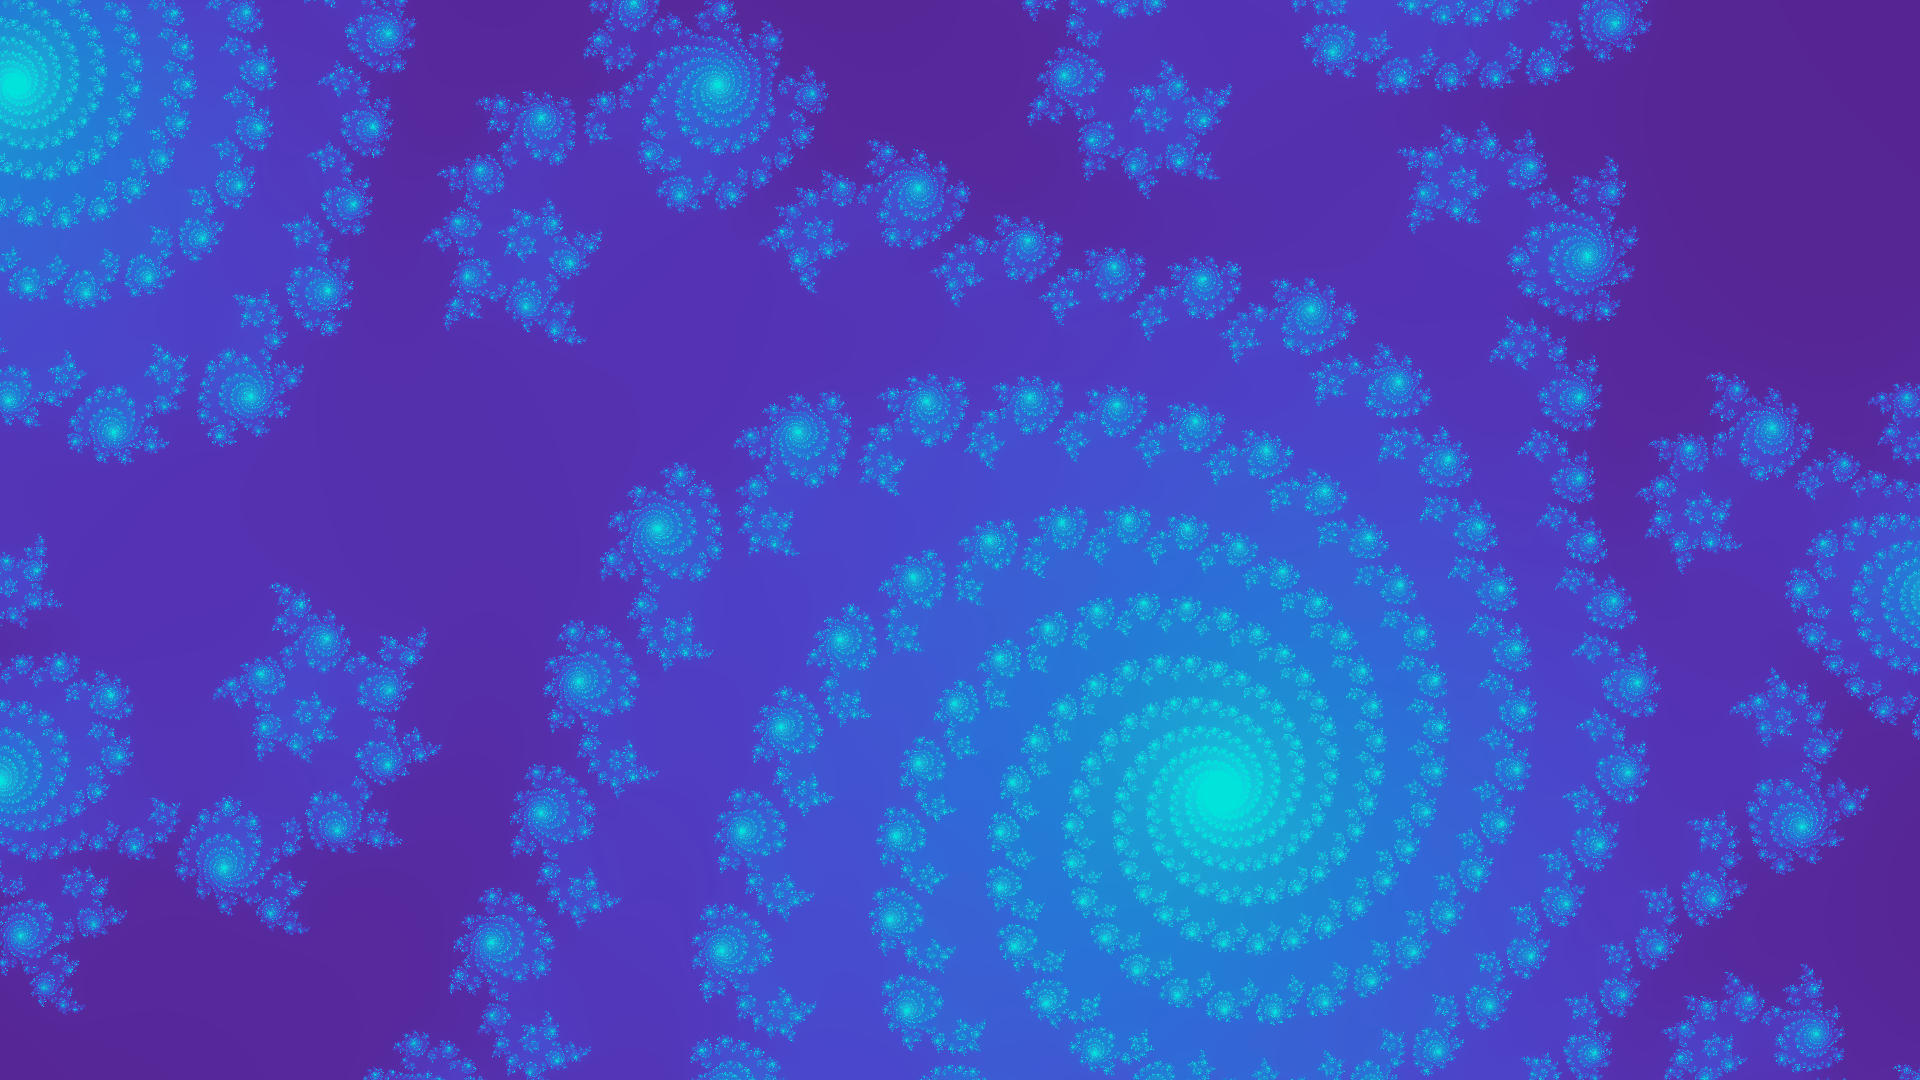
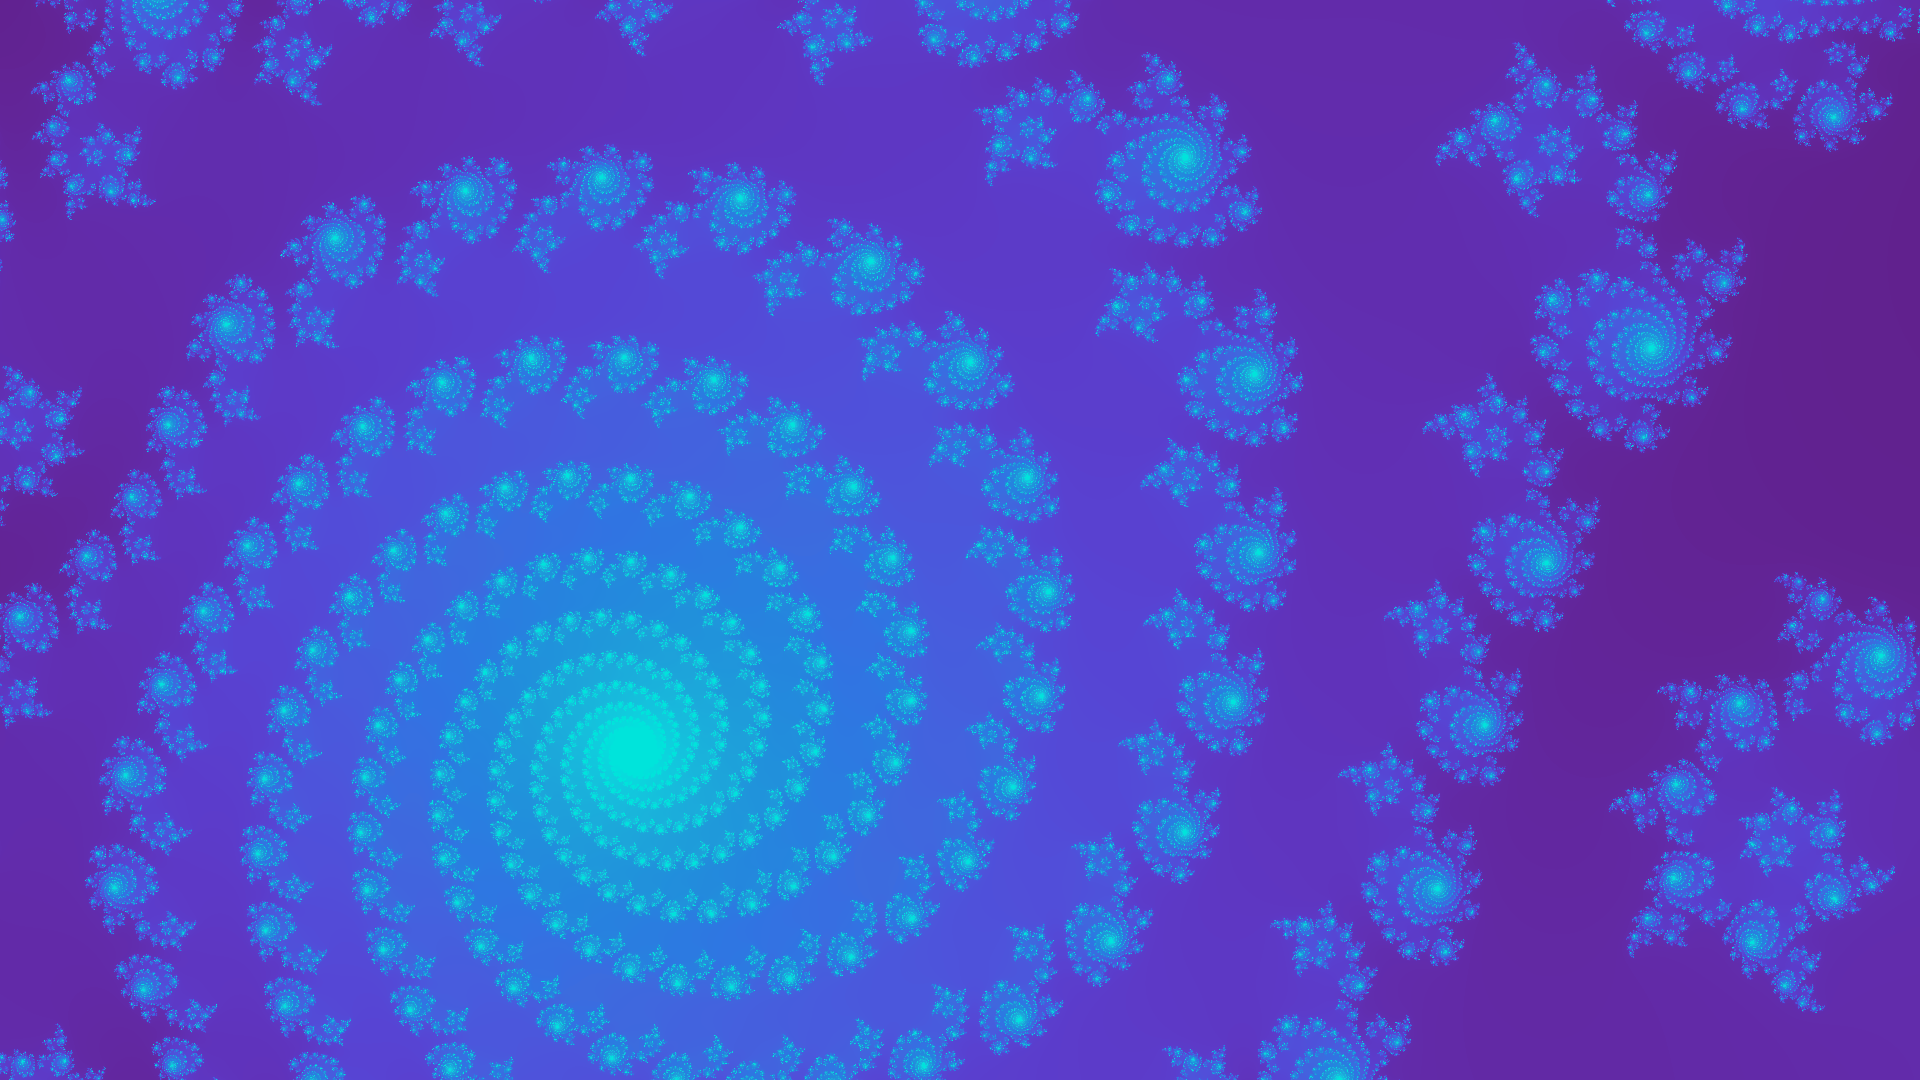
Comment Julia

diff --git a/src/algorithms/maths/julia.rs b/src/algorithms/maths/julia.rs
@@ -1,5 +1,7 @@
+use std::f32::consts::{PI, TAU};
 use crate::*;
 use num::complex::{Complex64, ComplexFloat};
+use crate::utils::num_utils::lerp;
 
 #[derive(Default)]
 pub(crate) struct Julia;
@@ -11,28 +13,46 @@ impl Generator for Julia {
 
         for py in 0..args.height {
             for px in 0..args.width {
+                // This makes it so that the centre of the image is (0, 0)
+                // And up in the image is +y
                 let (x, y) = (
-                    px as f64 / width - 0.5,
-                    -((py as f64 / height - 1.6) * height / width),
+                    (px as f64 / width - 0.5),
+                    -((py as f64 / height - 0.5) * height / width),
                 );
+                // Adjust the julia starting point for different values
                 let c = Complex64::new(0.355, 0.355);
-                let z = Complex64::new(x, y);
+
+                // Centre of the complex plane that we're focusing on
+                let centre = Complex64::new(0.0, -0.4);
+
+                // Zoom level: Smaller = stuff gets smaller
+                let zoom = 1.0 / 0.8;
+
+                let z = Complex64::new(x, y) / zoom + centre;
+
+                // Changes the "resolution" of the julia set iteration
                 let max = 320;
 
+                // How long does it take for the point to diverge
+                // 0 = straight away; 1 = it never does
                 let i = quadratic_iteration(c, z, max) as f32 / max as f32;
 
-                let h_start = 300.0 / 360.0;
-                let h_end = 190.0 / 360.0;
+                // let h_start = 300.0 / 360.0;
+                // let h_end = 190.0 / 360.0;
+                // let hue = (h_start + i * (h_end - h_start));
+                // Above and below are equivalent
+                let hue = lerp(i, 310.0, 190.0) / 360.0;
 
-                let s_start = 0.8;
-                let s_end = 1.0;
+                // let s_start = 0.8;
+                // let s_end = 1.0;
+                // let saturation = s_start + i * (s_end - s_start);
+                let saturation = lerp(i, 0.8, 1.0);
 
-                let l_start = 0.3;
-                let l_end = 0.8;
+                // let l_start = 0.3;
+                // let l_end = 0.8;
+                // let lightness = l_start + i * (l_end - l_start);
 
-                let hue = (h_start + i * (h_end - h_start));
-                let saturation = s_start + i * (s_end - s_start);
-                let lightness = l_start + i * (l_end - l_start);
+                let lightness = lerp(i, 0.3, 0.8);
 
                 let colour = colour_utils::convert_from_ok_hsl(hue, saturation, lightness);
 

diff --git a/src/main.rs b/src/main.rs
@@ -16,8 +16,8 @@ trait Generator: Default {
 }
 
 fn main() {
-    let a = Args::new(1920, 1080, "./out");
-    ImageManager::run::<algorithms::shapes::delaunay::DelaunayTri>(&a).unwrap();
+    let a = Args::new(1920, 1080, "./demo");
+    ImageManager::run::<algorithms::maths::julia::Julia>(&a).unwrap();
 }
 
 #[cfg(test)]
